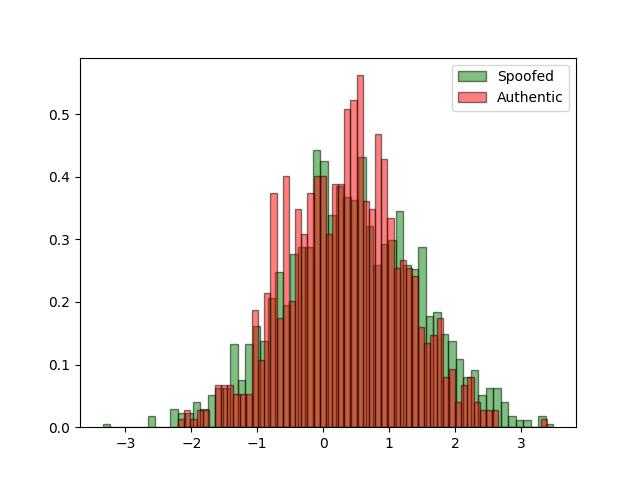
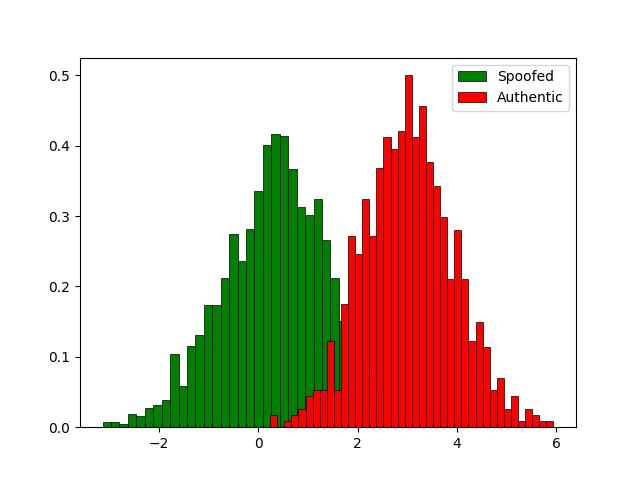
Completed KFold - Generatives - LR

diff --git a/src/generative_models.py b/src/generative_models.py
@@ -1,0 +1,85 @@
+import numpy as np
+import scipy as sc
+import utility as u
+import discriminative_models as lr
+def logpdf_GAU_ND(x, mu, sigma):
+    term1 = -(x.shape[0]/2)*np.log(2*np.pi)
+    term2 = -(1/2)*(np.linalg.slogdet(sigma)[1])
+    term3 = -(1/2)*((np.dot((x-mu).T, np.linalg.inv(sigma))).T*(x-mu)).sum(axis=0)
+    return term1+term2+term3
+
+def computeScoreMatrix(D, mu0, sigma0, mu1, sigma1,  callback):
+    S = np.array([callback(D, mu0, sigma0), callback( D, mu1, sigma1)])
+    return S
+
+def computeLogSPost(DTE,LTE,mu0,sigma0,mu1,sigma1):
+    logS = computeScoreMatrix(DTE, mu0, sigma0, mu1,sigma1, logpdf_GAU_ND)
+    priorLogProbabilities = u.vcol(np.array([np.log(1/2), np.log(1/2)]))
+    logSJoint = logS+priorLogProbabilities  
+    logSMarginal =  u.vrow(sc.special.logsumexp(logSJoint, axis=0))
+    logSPost = logSJoint - logSMarginal
+    numberOfCorrectPredictions = 0
+    predictedLabels = logSPost.argmax(axis=0)
+    numberOfCorrectPredictions += np.array(predictedLabels == LTE).sum()
+    return numberOfCorrectPredictions
+
+def NaiveBayes(DTR,LTR,DTE,LTE):
+    #Naive Bayes
+    (mu0, sigma0), (mu1, sigma1) = u.computeMLestimates(DTR, LTR)    
+    (sigma0, sigma1) = (sigma0*np.identity(sigma0.shape[0]), sigma1*np.identity(sigma1.shape[0]))
+    numberOfCorrectPredictions = computeLogSPost(DTE,LTE,mu0,sigma0,mu1,sigma1)
+    return numberOfCorrectPredictions
+
+
+def TiedNaiveBayes(DTR,LTR,DTE,LTE):
+    #Tied Covariance Naive Bayes
+    (mu0, sigma0), (mu1, sigma1) = u.computeMLestimates(DTR, LTR)
+    (sigma0, sigma1) = (sigma0*np.identity(sigma0.shape[0]), sigma1*np.identity(sigma1.shape[0]))
+    sigma = (1/DTR.shape[1])*((LTR == 0).sum()*sigma0 +(LTR == 1).sum()*sigma1)
+    numberOfCorrectPredictions = computeLogSPost(DTE,LTE,mu0,sigma,mu1,sigma)
+    return numberOfCorrectPredictions
+
+def MVG(DTR,LTR,DTE,LTE):
+    (mu0, sigma0), (mu1, sigma1) = u.computeMLestimates(DTR, LTR)   
+    numberOfCorrectPredictions = computeLogSPost(DTE,LTE,mu0,sigma0,mu1,sigma1)
+    return numberOfCorrectPredictions
+
+
+def TiedMVG(DTR,LTR,DTE,LTE):
+    #Tied Covariance MVG
+    (mu0, sigma0), (mu1, sigma1) = u.computeMLestimates(DTR, LTR)
+    sigma = (1/DTR.shape[1])*((LTR == 0).sum()*sigma0 +(LTR == 1).sum()*sigma1)
+    numberOfCorrectPredictions = computeLogSPost(DTE,LTE,mu0,sigma,mu1,sigma)
+    return numberOfCorrectPredictions
+
+def Kfold(D,L,K):
+    N = int(D.shape[1]/K)
+    classifiers = [(MVG, "Multivariate Gaussian Classifier"), (NaiveBayes, "Naive Bayes"), (TiedMVG, "Tied MVG Covariance"), (TiedNaiveBayes, "Tied NB Covariance"),(lr.logistic_regression,"Logistic Regression")]
+
+    for j, (c, cstring) in enumerate(classifiers):
+        nCorrectPrediction = 0
+        np.random.seed(j)
+        indexes = np.random.permutation(D.shape[1])
+        for i in range(K):
+            idxTest = indexes[i*N:(i+1)*N]
+            if i > 0:
+                idxTrainLeft = indexes[0:i*N]
+            elif (i+1) < K:
+                idxTrainRight = indexes[(i+1)*N:]
+
+            if i == 0:
+                idxTrain = idxTrainRight
+            elif i == K-1:
+                idxTrain = idxTrainLeft
+            else:
+                idxTrain = np.hstack([idxTrainLeft, idxTrainRight])
+            
+            DTR = D[:, idxTrain]
+            LTR = L[idxTrain]
+            DTE = D[:, idxTest]
+            LTE = L[idxTest]
+            nCorrectPrediction += c(DTR, LTR, DTE, LTE)
+
+        accuracy = nCorrectPrediction/D.shape[1]
+        errorRate = 1 - accuracy
+        print(f"{cstring} k-fold results:\nAccuracy: {round(accuracy*100, 2)}%\nError rate: {round(errorRate*100, 2)}%\n") 

diff --git a/src/discriminative_models.py b/src/discriminative_models.py
@@ -1,0 +1,50 @@
+import utility as u
+import numpy as np
+import scipy.optimize as sopt
+import numpy.linalg as npla
+##### Logistic Regression objective #####
+def lr_obj_wrap (DTR, LTR, lam):
+    z=np.empty((LTR.shape[0]))
+    
+    for i in range(LTR.shape[0]):
+        z[i]=2*LTR[i]-1
+    def lr_obj (v):
+        w,b = v[0:-1], v[-1]
+        N = DTR.shape[1]
+        term1 = lam/2 * npla.norm(w)**2
+        term2 = 1/N
+        term3 = 0
+        for i in range(N):
+            ci = LTR[i]
+            zi = 2*ci-1
+            xi = DTR[:,i]
+            term3 += np.logaddexp(0, -zi*(b + np.dot(w.T, xi)))
+        loss = term1 + term2*term3
+        return loss
+    return lr_obj
+
+
+##### Compute scores of Logistc Regression #####
+def lr_compute_scores (DTE, LTE, v):
+    w,b = v[0:-1], v[-1]
+    n = DTE.shape[1]
+    LP = []
+    for i in range(0,n):
+        xt = DTE[:,i]
+        si = b + np.dot(w.T, xt)
+        if (si>0): LP.append(1)
+        else: LP.append(0)
+    correctly = np.sum(np.array(LP==LTE))
+    return correctly
+# ----- Logistic Regression -----
+def logistic_regression (DTR, LTR, DTE, LTE):
+    lambda_values = [1e-6, 1e-4, 1e-2, 0.1, 1.0]
+    max_correctly = 0
+
+    for lam in lambda_values:
+        lr_obj = u.lr_obj_wrap(DTR, LTR, lam)
+        (x,_,_) = sopt.fmin_l_bfgs_b(lr_obj, np.zeros(DTR.shape[0]+1), approx_grad=True)
+        correctly = u.lr_compute_scores(DTE, LTE, x)
+        if correctly>max_correctly: max_correctly=correctly
+
+    return max_correctly

diff --git a/src/utility.py b/src/utility.py
@@ -42,3 +42,24 @@ def compute_correlation(x, y):
     num = n*cross_product_sum - x1_sum*y1_sum
     den = np.sqrt((n*x2_sum - x1_sum**2) * (n*y2_sum - y1_sum**2))
     return num/den
+
+###### Compute means and covariance matrices
+def computeMLestimates(D, L):
+    # Classes means 
+    mu0 = D[:, L == 0].mean(axis=1)
+    mu1 = D[:, L == 1].mean(axis=1)
+    # Reshape all of them as 4x1 column vectors
+    mu0 = vcol(mu0)
+    mu1 = vcol(mu1)
+    # Count elements 
+    n0 = D[:, L == 0].shape[1]
+    n1 = D[:, L == 1].shape[1]
+    # Subtract classes means from classes datasets with broadcasting
+    DC0 = D[:, L == 0]-mu0
+    DC1 = D[:, L == 1]-mu1
+
+    # Classes covariance matrices
+    sigma0 = (1/n0)*(np.dot(DC0, DC0.T))
+    sigma1 = (1/n1)*(np.dot(DC1, DC1.T))
+
+    return (mu0, sigma0), (mu1, sigma1) 

diff --git a/src/plot.py b/src/plot.py
@@ -34,13 +34,8 @@ def plot_hist(DTR,LTR):
 def plot_hist_LDA(D,LTR):
        labels = ["Spoofed", "Authentic"]
        plt.figure()
-
-       y = D[:, LTR == 0][0]
-       plt.hist(y, bins=60, density=True, alpha=0.5, linewidth=1.0, color='green', edgecolor='black',
-                label=labels[0])
-       y = D[:, LTR == 1][1]
-       plt.hist(y, bins=60, density=True, alpha=0.5, linewidth=1.0, color='red', edgecolor='black',
-                label=labels[1])
+       plt.hist(D[:, LTR == 0][1], bins=40, density=True, alpha=0.5, linewidth=0.5, color='green', edgecolor='black',label=labels[0])
+       plt.hist(D[:, LTR == 1][0], bins=40, density=True, alpha=0.5, linewidth=0.5, color='red', edgecolor='black',label=labels[1])
        plt.legend()
        plt.savefig('./images/hist_LDA'  + '.jpg')
        plt.show()

diff --git a/src/PCA_LDA.py b/src/PCA_LDA.py
@@ -7,7 +7,7 @@ def computeEigenValuesAndEigenVectors(C, D, m):
     #WE COMPUTE EIGEN-DECOMPOSITION
     s, U = np.linalg.eigh(C)
     P = U[:, ::-1][:, 0:m]
-    
+
     DP = np.dot(P.T, D)
     #DP = Data Projection
     return DP
@@ -18,7 +18,6 @@ def compute_sw(D, L): #WITHIN CLASS COVARIANCE
     for i in [0, 1]: #SINCE WE KNOW THAT WE HAVE 2 CLASSES
         SW += (L==i).sum() * u.computeCovarianceMatrix(D[:, L==i]) 
     SW = SW / D.shape[1] #D.shape[1] IS THE NUMBER OF SAMPLES OF THE WHOLE DATASET
-    print(SW)
     return SW
 
 

diff --git a/src/main.py b/src/main.py
@@ -3,6 +3,7 @@ import utility as u
 import matplotlib.pyplot as plt
 import plot 
 import PCA_LDA as dimRed
+import generative_models as gen
 ##### CLASSES #####
 
 
@@ -17,9 +18,6 @@ if __name__ == "__main__":
     mu = u.computeMean(DTR)
     C = u.computeCovarianceMatrix(DTR)
     m = 2 #dim 2
-    DP = dimRed.computeEigenValuesAndEigenVectors(C,DTR,m)
-    plot.plot_scatter_PCA(DP,LTR)
-    DP = dimRed.compute_LDA_directions1(DTR,LTR,m)
-    plot.plot_hist_LDA(DP,LTR)
 
-
+    gen.Kfold(DTR,LTR,5)
+    
